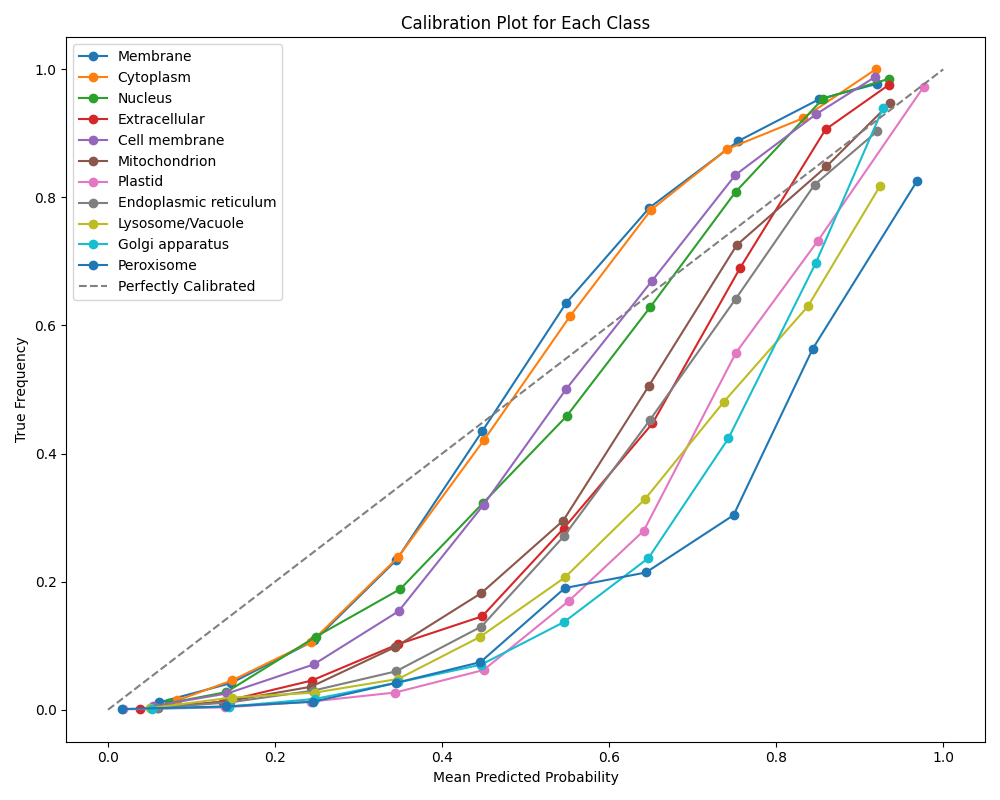
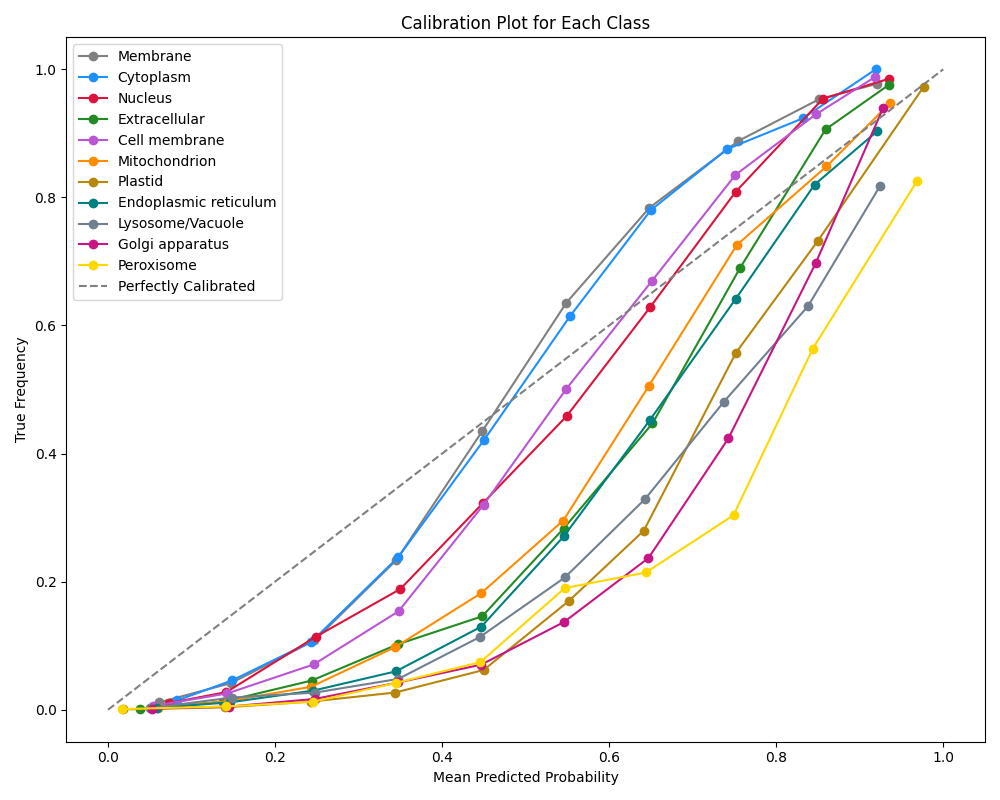
calibration plots updated

diff --git a/plot_calibration_curve.py b/plot_calibration_curve.py
@@ -33,6 +33,20 @@ def extract_predictions(predictions_csv, class_columns):
 def plot_calibration_curve(true_labels_csv, predictions_csv, n_bins=10):
     """Plot calibration curves for each class and a separate overall calibration curve."""
     
+    # Define a fixed color map for each class
+    color_map = {
+    'Cytoplasm': 'dodgerblue',         # A bright but soft blue
+    'Nucleus': 'crimson',              # Softer than pure red, with good contrast
+    'Extracellular': 'forestgreen',    # A deep green that's more subdued
+    'Cell membrane': 'mediumorchid',   # A softer purple
+    'Mitochondrion': 'darkorange',     # Muted orange with good visibility
+    'Plastid': 'darkgoldenrod',        # A rich gold/brown tone
+    'Endoplasmic reticulum': 'teal',   # Soft but distinctive blue-green
+    'Lysosome/Vacuole': 'slategray',   # Neutral gray with a hint of blue
+    'Golgi apparatus': 'mediumvioletred', # Softer magenta
+    'Peroxisome': 'gold'               # Bright yellow with strong contrast
+    }
+    
     # Extract true labels and class names
     true_labels_dict, class_labels = extract_true_labels(true_labels_csv)
     
@@ -44,7 +58,7 @@ def plot_calibration_curve(true_labels_csv, predictions_csv, n_bins=10):
     all_pred_probs = []
     
     # 1. Plot individual calibration curves for each class
-    plt.figure(figsize=(15, 10))
+    plt.figure(figsize=(10, 8))
     
     for i, class_name in enumerate(class_labels):
         class_true = []
@@ -62,8 +76,8 @@ def plot_calibration_curve(true_labels_csv, predictions_csv, n_bins=10):
         # Calculate calibration curve for the class
         prob_true, prob_pred = calibration_curve(class_true, class_pred, n_bins=n_bins, strategy='uniform')
         
-        # Plot calibration curve for the class
-        plt.plot(prob_pred, prob_true, marker='o', label=class_name)
+        # Plot calibration curve for the class with a fixed color
+        plt.plot(prob_pred, prob_true, marker='o', label=class_name, color=color_map.get(class_name, 'gray'))
     
     # Plot the diagonal for perfect calibration
     plt.plot([0, 1], [0, 1], linestyle="--", color="gray", label="Perfectly Calibrated")
@@ -83,7 +97,7 @@ def plot_calibration_curve(true_labels_csv, predictions_csv, n_bins=10):
     print(f"Class-specific calibration plot saved to {class_plot_path}")
     
     # 2. Plot overall calibration curve
-    plt.figure(figsize=(8, 6))
+    plt.figure(figsize=(10, 8))
     
     # Calculate overall calibration curve
     prob_true, prob_pred = calibration_curve(all_true_labels, all_pred_probs, n_bins=n_bins, strategy='uniform')

diff --git a/src/utils.py b/src/utils.py
@@ -479,6 +479,19 @@ def plot_combined_calibration_curve(data_df, output_folder, n_bins=10):
         output_folder (str): Path to save the calibration plots.
         n_bins (int): Number of bins for calibration.
     """
+    # Define a fixed color map for each class
+    color_map = {
+    'Cytoplasm': 'dodgerblue',         # A bright but soft blue
+    'Nucleus': 'crimson',              # Softer than pure red, with good contrast
+    'Extracellular': 'forestgreen',    # A deep green that's more subdued
+    'Cell membrane': 'mediumorchid',   # A softer purple
+    'Mitochondrion': 'darkorange',     # Muted orange with good visibility
+    'Plastid': 'darkgoldenrod',        # A rich gold/brown tone
+    'Endoplasmic reticulum': 'teal',   # Soft but distinctive blue-green
+    'Lysosome/Vacuole': 'slategray',   # Neutral gray with a hint of blue
+    'Golgi apparatus': 'mediumvioletred', # Softer magenta
+    'Peroxisome': 'gold'               # Bright yellow with strong contrast
+    }
     
     # Plot 1: Calibration curve for each class (no overall curve)
     plt.figure(figsize=(10, 8))
@@ -494,7 +507,7 @@ def plot_combined_calibration_curve(data_df, output_folder, n_bins=10):
         prob_true, prob_pred = calibration_curve(data_df[f'{class_name}_true_binary'], data_df[prob_col], n_bins=n_bins, strategy='uniform')
         
         # Plot calibration curve for each class
-        plt.plot(prob_pred, prob_true, marker='o', label=class_name)
+        plt.plot(prob_pred, prob_true, marker='o', label=class_name, color=color_map.get(class_name, 'gray'))
 
     # Perfect calibration line
     plt.plot([0, 1], [0, 1], linestyle="--", color="gray", label="Perfectly Calibrated")
